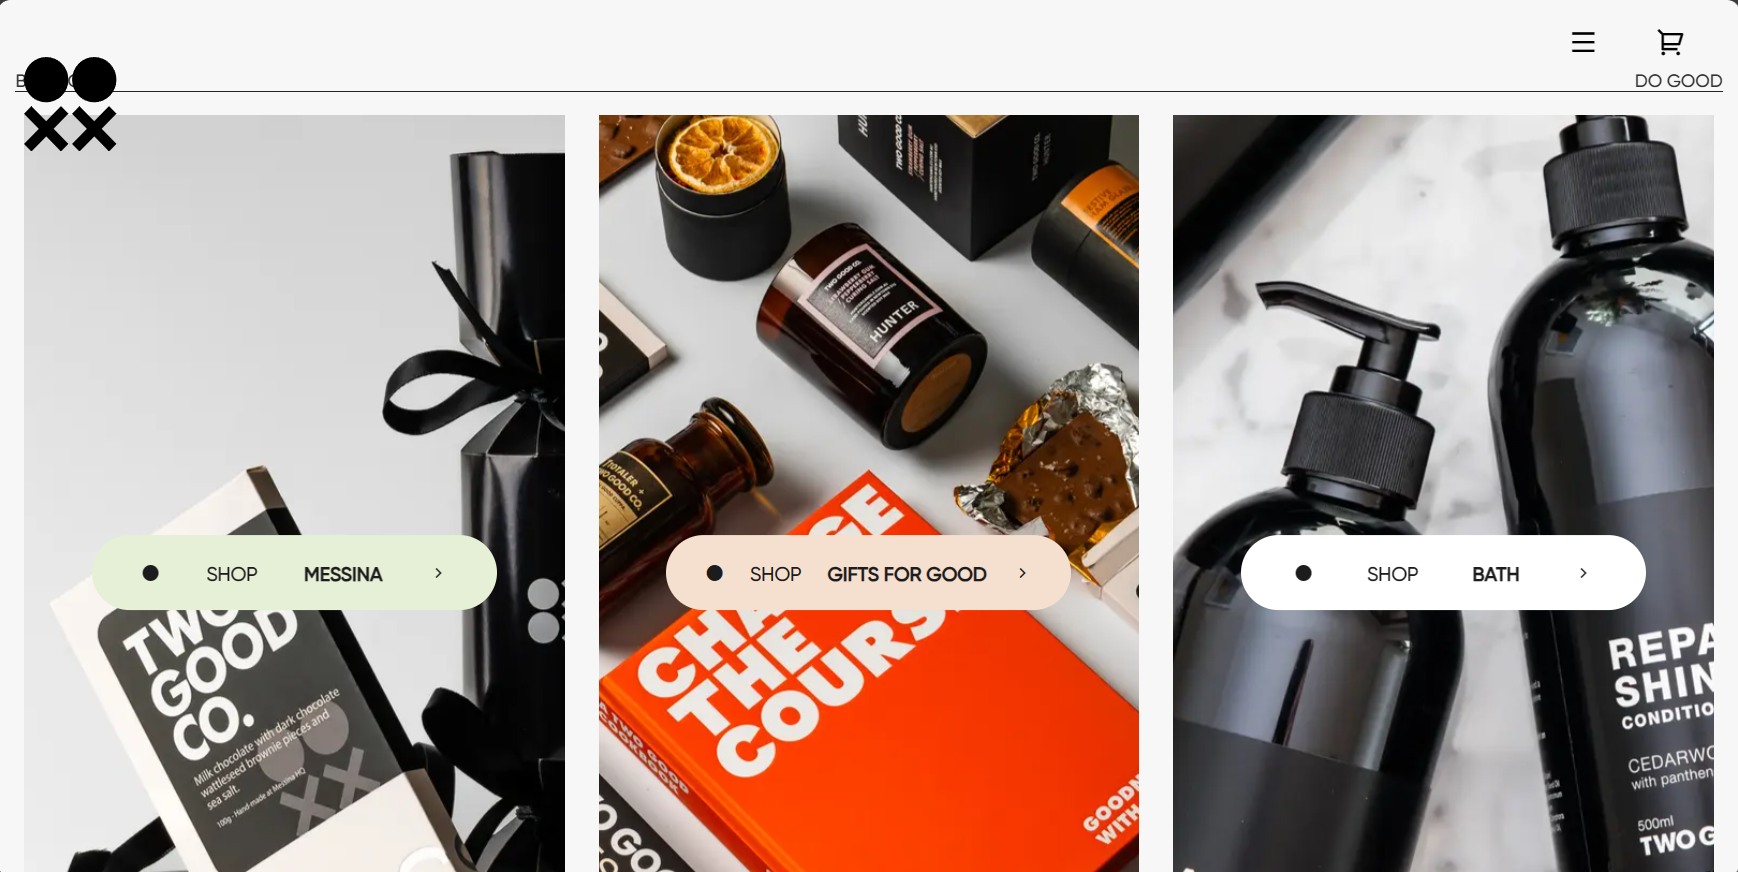
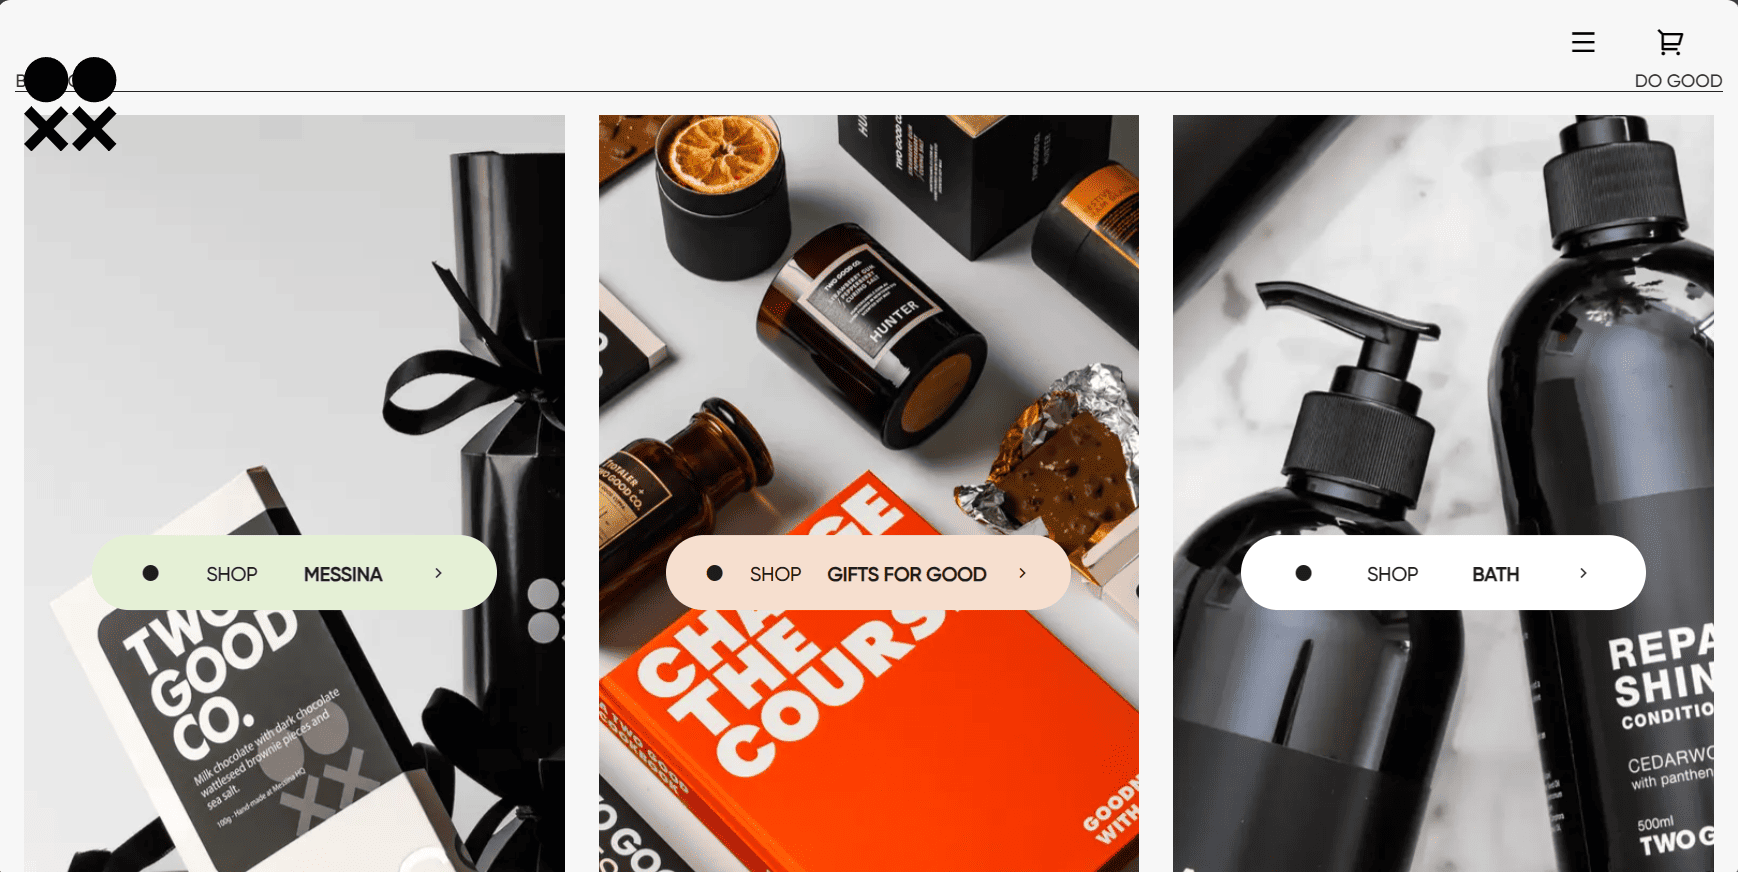
light

diff --git a/index.html b/index.html
@@ -30,11 +30,11 @@
             <div class="capsule">Netlify</div>
         </div>
         <div class="sab-pic">
-            <img src="img/netflix/net1.png" alt="imgg">
-            <img src="img/netflix/net2.png" alt="imgg">
-            <img src="img/netflix/net3.png" alt="imgg">
-            <img src="img/netflix/net4.png" alt="imgg">
-            <img src="img/netflix/net5.png" alt="imgg">
+            <img src="img/netflix/net1.webp" alt="imgg">
+            <img src="img/netflix/net2.webp" alt="imgg">
+            <img src="img/netflix/net3.webp" alt="imgg">
+            <img src="img/netflix/net4.webp" alt="imgg">
+            <img src="img/netflix/net5.webp" alt="imgg">
         </div>
     </div>
     <div class="cursor" id="thisra">
@@ -43,11 +43,11 @@
             <div class="capsule">Netlify</div>
         </div>
         <div class="sab-pic">
-            <img src="img/portfolio/pot1.png" alt="">
-            <img src="img/portfolio/pot2.png" alt="">
-            <img src="img/portfolio/pot3.png" alt="">
-            <img src="img/portfolio/pot1.png" alt="">
-            <img src="img/portfolio/pot5.png" alt="">
+            <img src="img/portfolio/pot1.webp" alt="">
+            <img src="img/portfolio/pot2.webp" alt="">
+            <img src="img/portfolio/pot3.webp" alt="">
+            <img src="img/portfolio/pot1.webp" alt="">
+            <img src="img/portfolio/pot5.webp" alt="">
         </div>
     </div>
     <div class="cursor" id="chrwa">
@@ -69,11 +69,11 @@
             <div class="capsule">Netlify</div>
         </div>
         <div class="sab-pic">
-            <img src="img/cyber/fic1.png" alt="imgg">
-            <img src="img/cyber/fic2.png" alt="imgg">
-            <img src="img/cyber/fic3.png" alt="imgg">
-            <img src="img/cyber/fic1.png" alt="imgg">
-            <img src="img/cyber/fic4.png" alt="imgg">
+            <img src="img/cyber/fic1.webp" alt="imgg">
+            <img src="img/cyber/fic2.webp" alt="imgg">
+            <img src="img/cyber/fic3.webp" alt="imgg">
+            <img src="img/cyber/fic1.webp" alt="imgg">
+            <img src="img/cyber/fic4.webp" alt="imgg">
         </div>
     </div>
 
@@ -203,7 +203,7 @@
                     </div>
                     <div id="pro-2" class="proimg">
                         <a class="sb-kuch alertii">
-                            <img data-index="1" data-scroll data-scroll-speed="-1.5" src="img/netflix/nettt.jpeg"
+                            <img data-index="1" data-scroll data-scroll-speed="-1.5" src="img/netflix/nettt.webp"
                                 alt="">
                             <div class="pro-info" id="pro-info-chotka">
                                 <p>Task given from Bharat Intern as a front-end developer </p>
@@ -215,7 +215,7 @@
                 <div id="project-row2" class="project-row">
                     <div id="pro2-1" class="proimg">
                         <a href="https://harsh-portfolio-23.netlify.app" target="_blank" class="sb-kuch">
-                            <img data-index="2" data-scroll data-scroll-speed="-1.5" src="img/portfolio/porta.png"
+                            <img data-index="2" data-scroll data-scroll-speed="-1.5" src="img/portfolio/portt.png"
                                 alt="">
                             <div id="pro-info-3" class="pro-info">
                                 <p>My previous Portfolio website which I've created using HTML and CSS only.</p>
@@ -236,7 +236,7 @@
                     </div>
                     <div data-index="4" id="pro3-2" class="proimg">
                         <a href="https://anime-canvaa.netlify.app" target="_blank" class="sb-kuch">
-                            <img data-scroll data-scroll-speed="-1.5" src="img/cyber/fiction-main.png" alt="">
+                            <img data-scroll data-scroll-speed="-1.5" src="img/cyber/fiction-main.webp" alt="">
                             <div id="pro-info-5" class="pro-info">
                                 <p>This website will show you a unique and engaging 3D-scrolling  animation using the power of canvas.</p>
                                 <div class="pro-name">CyberFiction</div>
@@ -267,39 +267,39 @@
             <div class="skill-niche">
                 <div class="row row1">
                     <div class="box">
-                        <img id="sdhk" src="img/icon/html.png" alt="">
+                        <img id="sdhk" src="img/icon/html.webp" alt="">
                     </div>
                     <div class="box">
-                        <img src="img/icon/css.png" alt="">
+                        <img src="img/icon/css.webp" alt="">
                     </div>
                     <div class="box">
-                        <img src="img/icon/js.png" alt="">
+                        <img src="img/icon/js.webp" alt="">
                     </div>
                     <div class="box">
                         <img src="img/icon/react.png" alt="">
                     </div>
                     <div class="box">
-                        <img src="img/icon/tail.png" alt="">
+                        <img src="img/icon/tail.webp" alt="">
                     </div>
                     <div class="box">
-                        <img src="img/icon/node.png" alt="">
+                        <img src="img/icon/node.webp" alt="">
                     </div>
                 </div>
                 <div class="row row2">
                     <div class="box">
-                        <img src="img/icon/c.png" alt="">
+                        <img src="img/icon/c.webp" alt="">
                     </div>
                     <div class="box">
-                        <img src="img/icon/cpp.png" alt="">
+                        <img src="img/icon/cpp.webp" alt="">
                     </div>
                     <div class="box">
-                        <img src="img/icon/python.png" alt="">
+                        <img src="img/icon/python.webp" alt="">
                     </div>
                     <div class="box">
-                        <img src="img/icon/gitt .png" alt="">
+                        <img src="img/icon/gitt .webp" alt="">
                     </div>
                     <div class="box">
-                        <img src="img/icon/vs.png" alt="">
+                        <img src="img/icon/vs.webp" alt="">
                     </div>
                 </div>
             </div>
